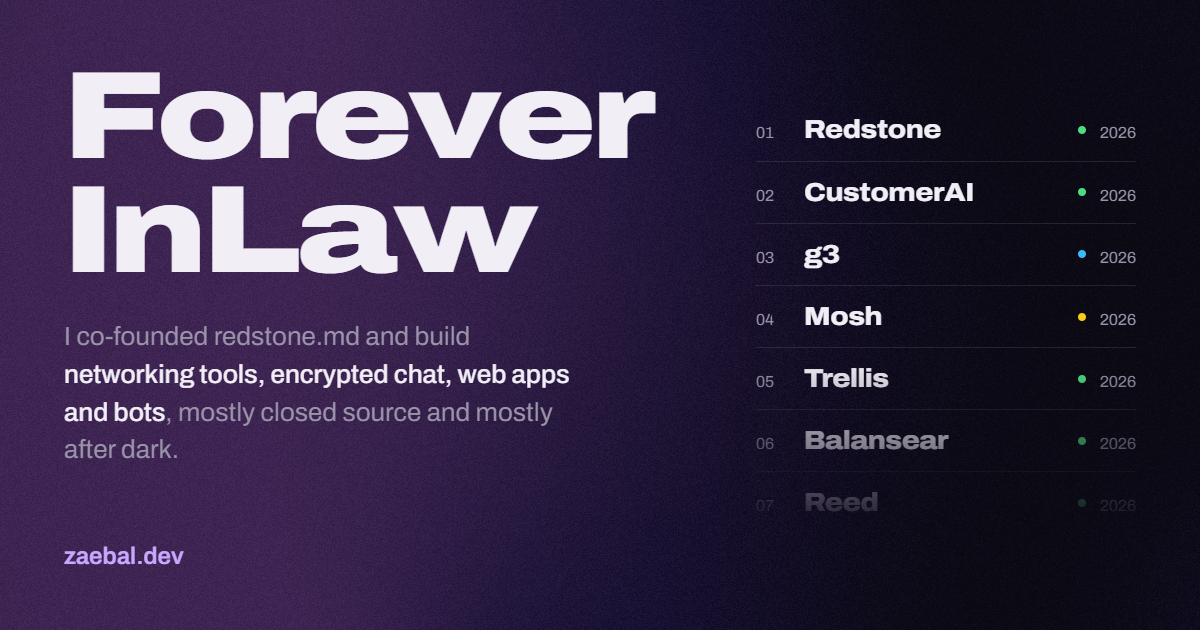
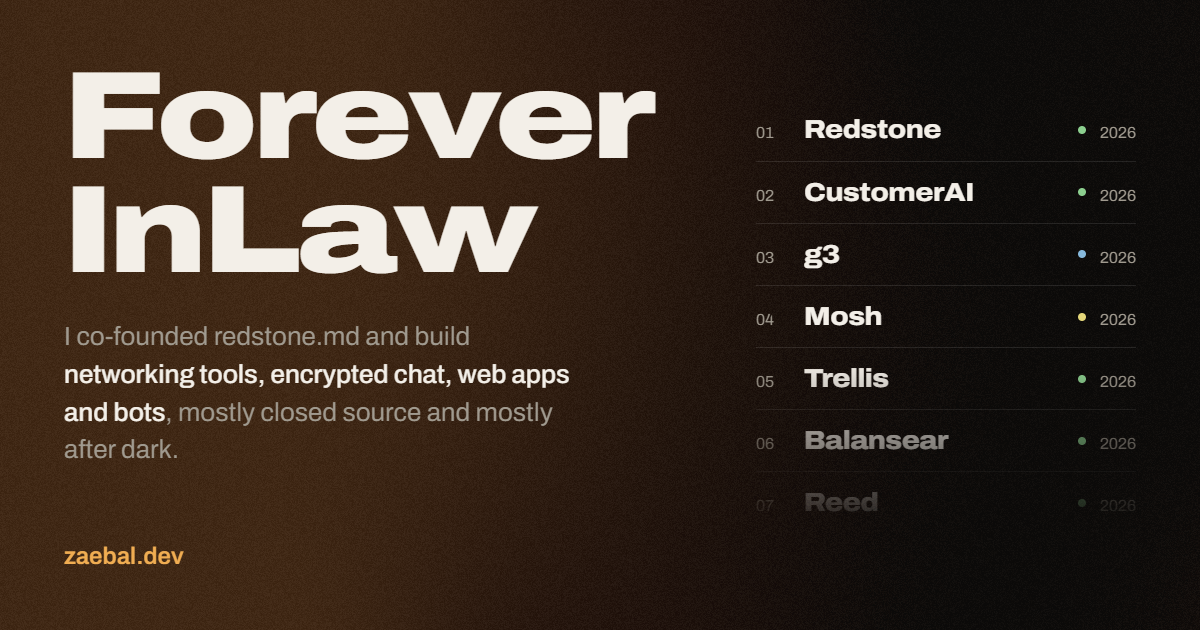
feat(theme): trade the violet look for warm black and amber

diff --git a/css/variables.css b/css/variables.css
@@ -1,18 +1,24 @@
 :root {
     color-scheme: dark;
 
-    /* Ground and surfaces: a near-black violet page, one raised tone for the
+    /* Ground and surfaces: a warm near-black page, one raised tone for the
        bio column, one more for chips and cards sitting on it. */
-    --bg: #0b0a0f;
-    --panel: #121019;
-    --raised: #1b1824;
-    --raised-hover: #242030;
-    --line: #24202e;
+    --bg: #0c0b0a;
+    --panel: #141210;
+    --raised: #1e1b18;
+    --raised-hover: #292520;
+    --line: #27231e;
 
-    --fg: #f1eef6;
-    --muted: #9a93a9;
-    --accent: #c8a8ff;
-    --on-accent: #0b0a0f;
+    --fg: #f3efe8;
+    --muted: #a09a8f;
+    --accent: #f0ad52;
+    --on-accent: #0c0b0a;
+
+    /* The steps up to the accent: a day's or an hour's share of the work
+       (the heatmap, the dial). */
+    --heat-1: #3a2e1d;
+    --heat-2: #6b4f27;
+    --heat-3: #a97a37;
 
     --font: "Archivo", system-ui, -apple-system, "Segoe UI", sans-serif;
 
@@ -108,9 +114,9 @@
     --press-dur: 160ms;
     --press-ease: var(--ease-bounce);
 
-    --status-active: #4ade80;
-    --status-wip: #facc15;
-    --status-oss: #38bdf8;
-    --status-archived: #8a8399;
+    --status-active: #8ccf8f;
+    --status-wip: #e4d77a;
+    --status-oss: #86b9dc;
+    --status-archived: #8b867d;
     --spotify: #1ed760;
 }

diff --git a/css/works.css b/css/works.css
@@ -228,9 +228,9 @@
     visibility: hidden;
 }
 
-.heatmap__cell[data-level="1"] { background: #3a3150; }
-.heatmap__cell[data-level="2"] { background: #5e4e86; }
-.heatmap__cell[data-level="3"] { background: #8f76c4; }
+.heatmap__cell[data-level="1"] { background: var(--heat-1); }
+.heatmap__cell[data-level="2"] { background: var(--heat-2); }
+.heatmap__cell[data-level="3"] { background: var(--heat-3); }
 .heatmap__cell[data-level="4"] { background: var(--accent); }
 
 /* An inset ring, not an outline: the scroll wrapper clips anything drawn

diff --git a/index.html b/index.html
@@ -18,7 +18,7 @@
 	<title>ForeverInLaw - Developer, co-founder of redstone.md</title>
 	<meta name="description" content="ForeverInLaw, co-founder of redstone.md. Networking tools, encrypted chat, web apps and bots. Selected works, GitHub activity and a now-playing Spotify card.">
 	<meta name="author" content="ForeverInLaw">
-	<meta name="theme-color" content="#0b0a0f">
+	<meta name="theme-color" content="#0c0b0a">
 	<link rel="canonical" href="https://zaebal.dev/">
 
 	<link rel="icon" href="/favicon.svg" type="image/svg+xml">

diff --git a/css/day-dial.css b/css/day-dial.css
@@ -36,7 +36,7 @@
 /* --share (from JS) is the hour's commits against the busiest hour's: it sets
    the bar's length there and its place on the heatmap's ramp here. */
 .dial__bar {
-    stroke: color-mix(in srgb, var(--accent) calc(var(--share) * 100%), #3a3150);
+    stroke: color-mix(in srgb, var(--accent) calc(var(--share) * 100%), var(--heat-1));
     stroke-width: 7;
     stroke-linecap: round;
     /* One dash as long as the bar (pathLength, day-dial.js): offset by its

diff --git a/js/modules/bio-glow.js b/js/modules/bio-glow.js
@@ -25,9 +25,9 @@ uniform vec2 uResolution;
 uniform float uTime;
 out vec4 fragColor;
 
-const vec3 LIGHT = vec3(0.478, 0.243, 0.643);
-const vec3 MID = vec3(0.165, 0.102, 0.400);
-const vec3 DARK = vec3(0.047, 0.031, 0.102);
+const vec3 LIGHT = vec3(0.500, 0.275, 0.100);
+const vec3 MID = vec3(0.250, 0.115, 0.060);
+const vec3 DARK = vec3(0.050, 0.042, 0.036);
 
 const float SPEED = 0.25;
 const float ZOOM = 0.9;

diff --git a/.impeccable/surfaces/index-html.md b/.impeccable/surfaces/index-html.md
@@ -11,7 +11,7 @@ Scope: zaebal.dev home page (index.html). Mode: Experience (personal bio page + 
 
 THESIS: A bio page that never lets go of the person: identity, links and live music sit in a sticky column while the portfolio scrolls beside it as a big index. Refuses the centred link-stack and the card-grid portfolio.
 
-OWN-WORLD: Near-black violet ground (#0b0a0f), one raised panel tone for the bio column, lilac accent (#c8a8ff) for hover and active, status colours only on dots. Archivo with the width axis: expanded black for the name and section heads, normal width for running text. Pills for small controls, 12-16px radii, hairline row rules.
+OWN-WORLD: Warm near-black ground (#0c0b0a), one raised panel tone for the bio column, amber accent (#f0ad52) for hover and active, status colours only on dots. Archivo with the width axis: expanded black for the name and section heads, normal width for running text. Pills for small controls, 12-16px radii, hairline row rules.
 
 STORY: Visitors see who it is and what is playing within one glance, then skim fourteen projects by name, hover any row to see the site itself, and leave through a social link or a playlist.
 

diff --git a/PRODUCT.md b/PRODUCT.md
@@ -38,7 +38,7 @@ Optional, may be dropped in a redesign: the "Slide to enter" entry screen, the l
 
 - Name: ForeverInLaw; domain zaebal.dev.
 - Voice: short, dry, a little self-ironic, in English ("…mostly closed source and mostly after dark.", "The Grind — Proof of work.").
-- The night-time rhythm and music are real parts of the identity; the current purple/pink look is not binding.
+- The night-time rhythm and music are real parts of the identity; the colours are not binding (warm near-black with an amber accent now).
 
 ## Evidence on Hand
 
